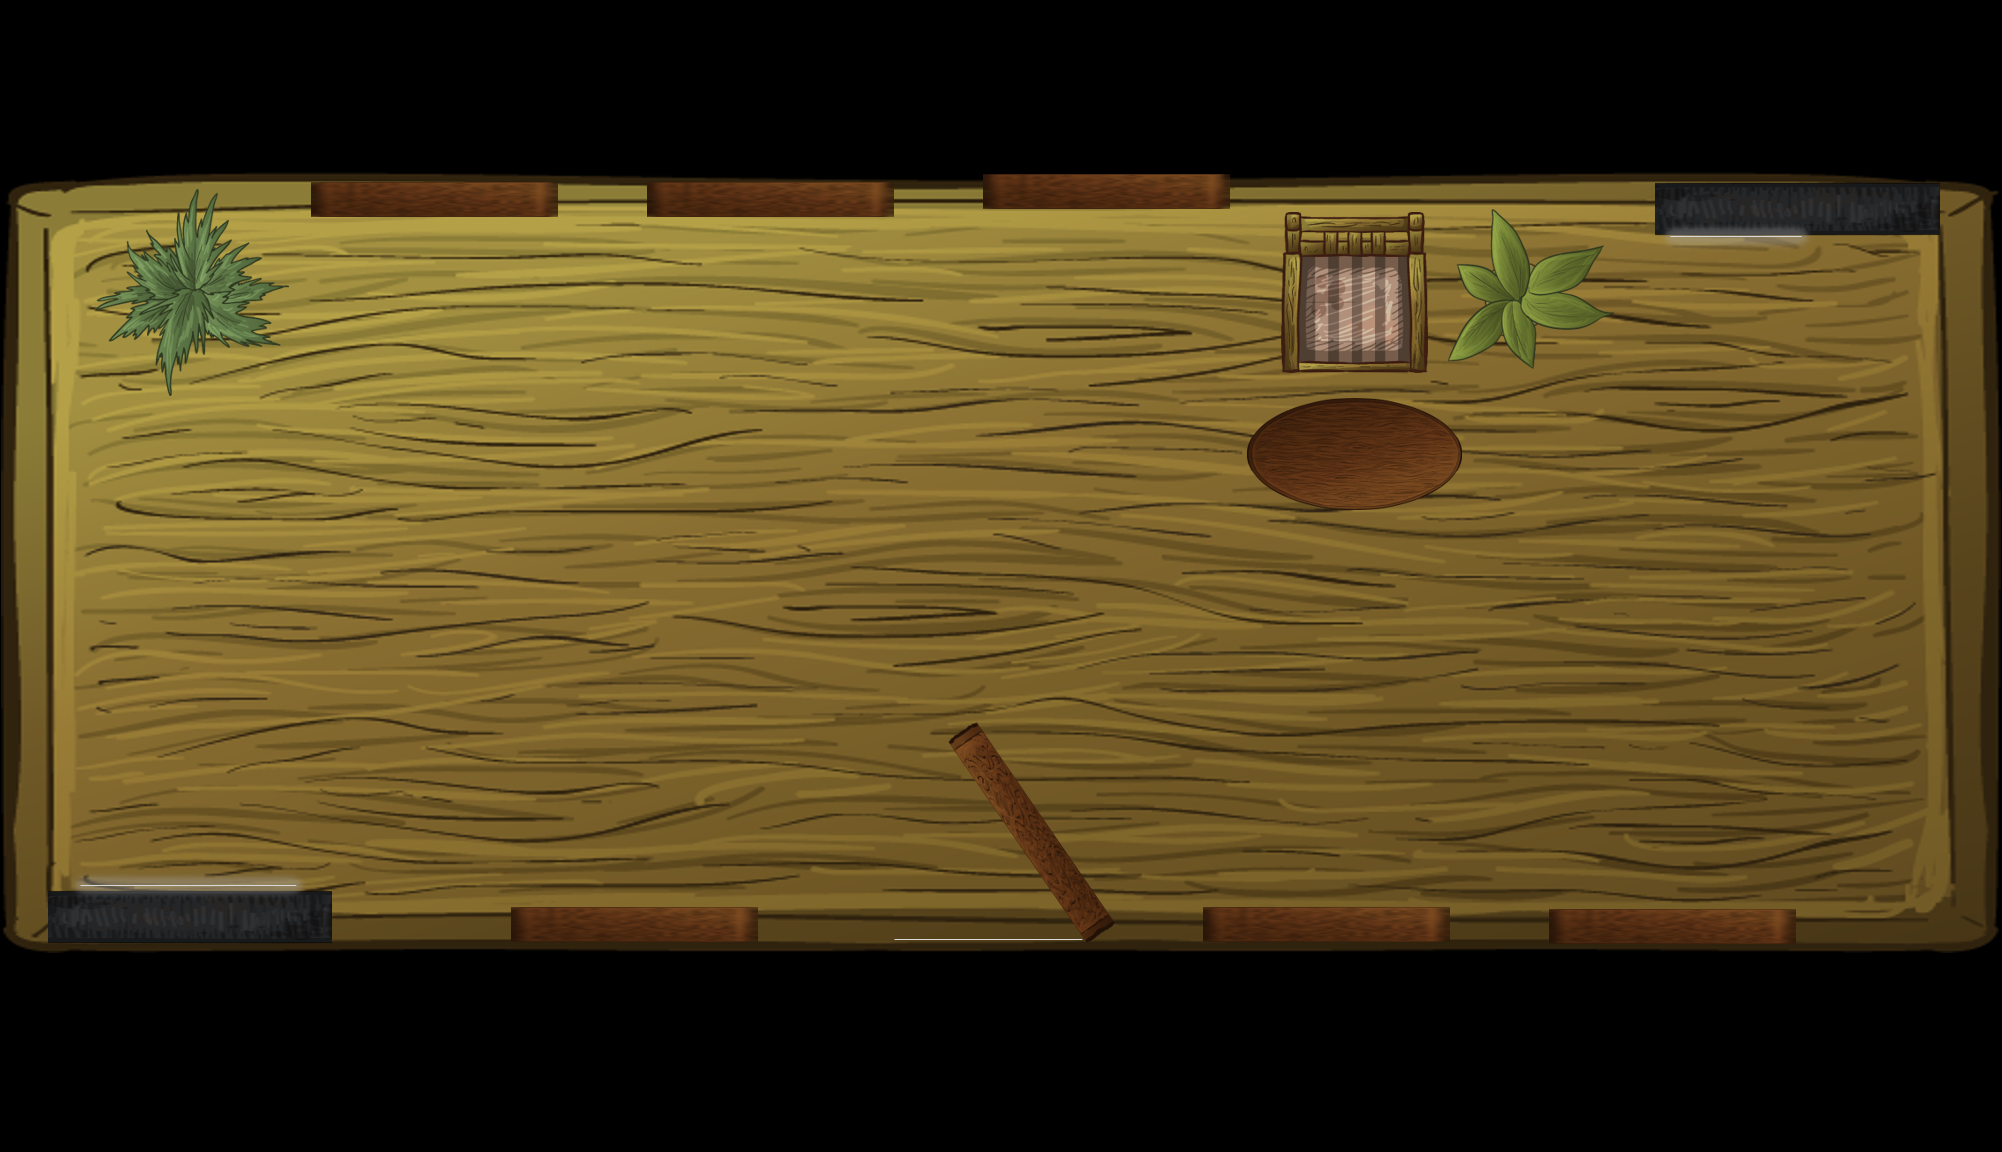
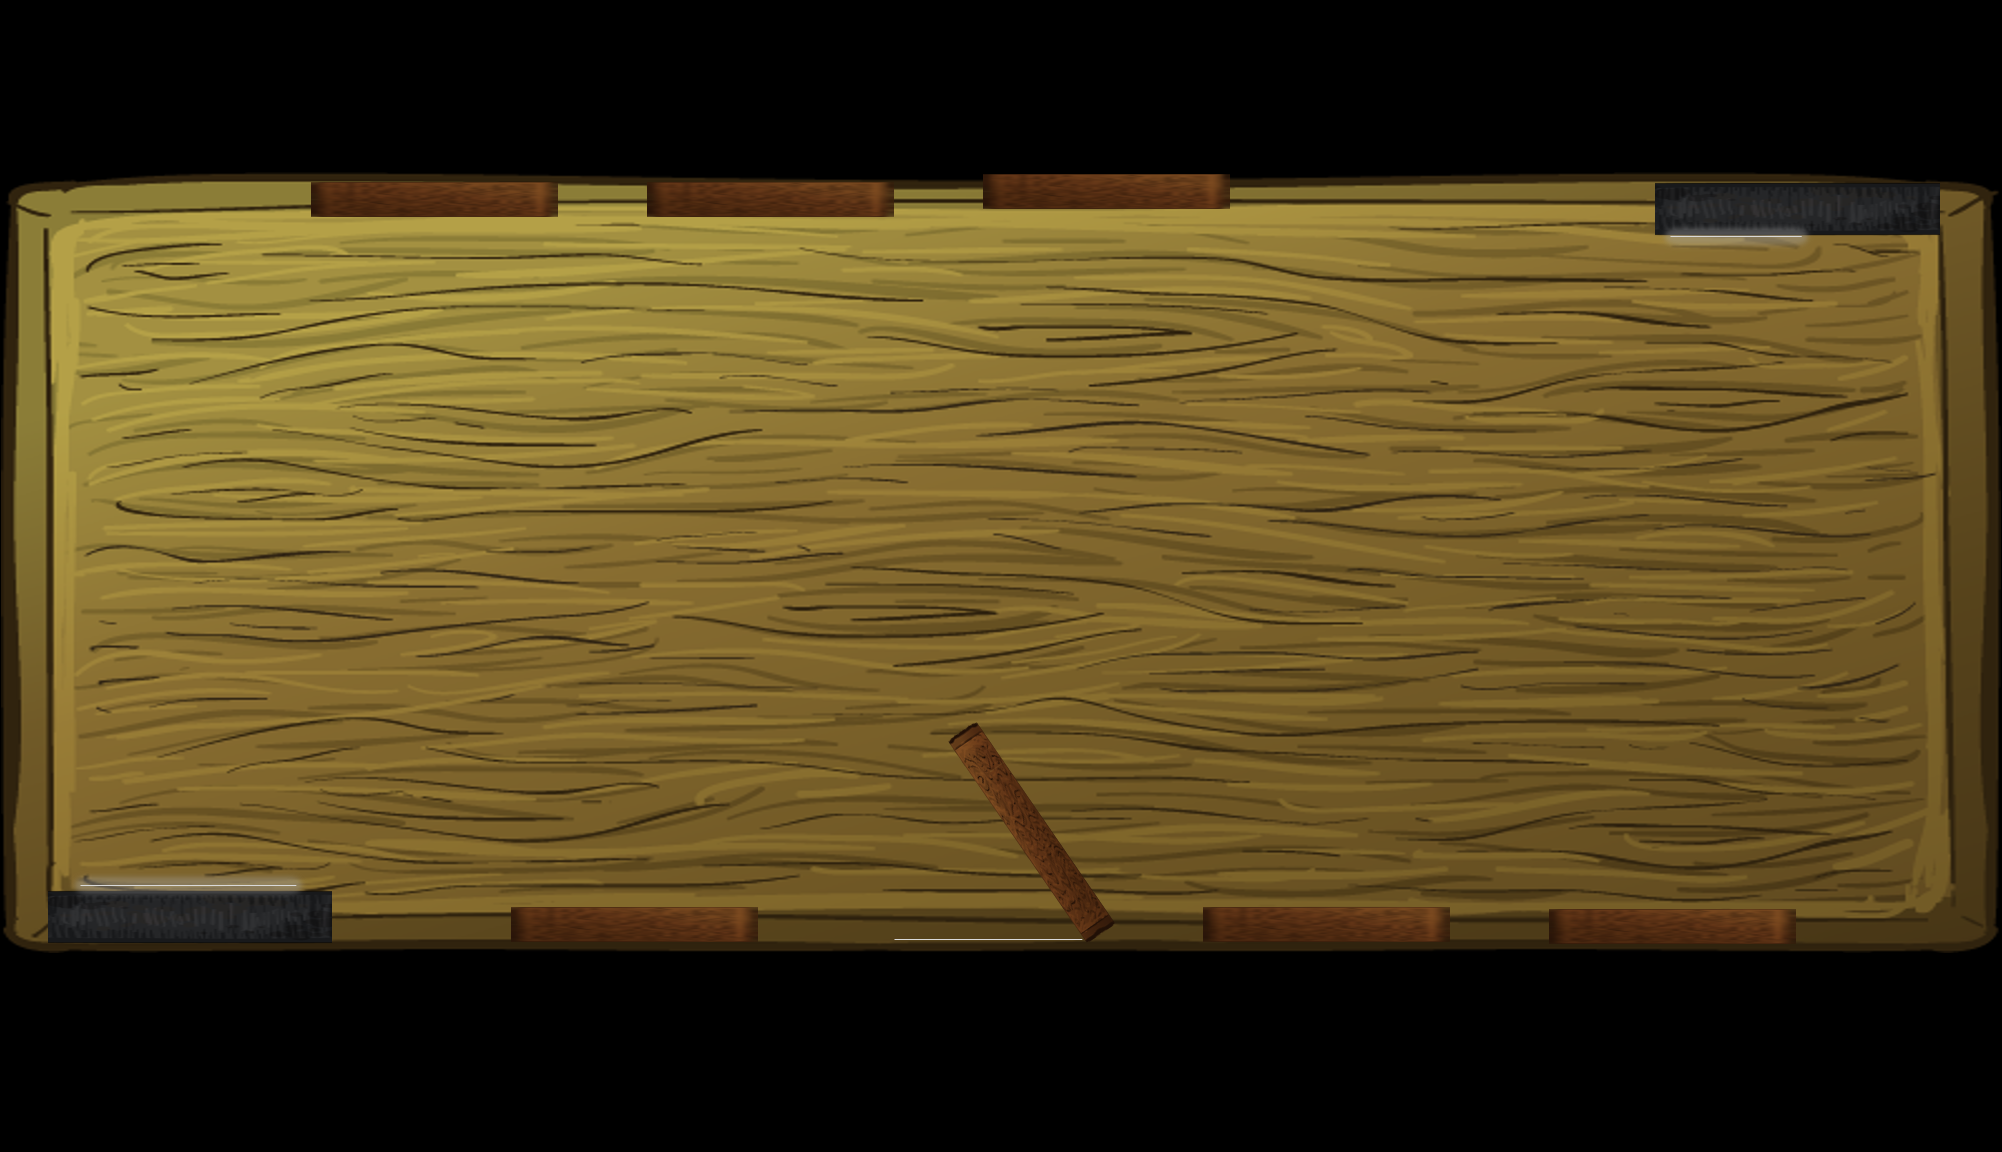
Separate background from obstacles

Changed region(s): [[0.6194, 0.1875, 0.8052, 0.4375], [0.031, 0.1562, 0.1548, 0.3438]]

diff --git a/game/VideoGame/src/videogame/Game.java b/game/VideoGame/src/videogame/Game.java
@@ -190,7 +190,7 @@ public class Game implements Runnable {
          direction = 1;
          vidas = 100;
          score = 0;
-         level = 4;
+         level = 1;
          gameOver = false;
          pause = false;
          display.getJframe().addKeyListener(keyManager);
